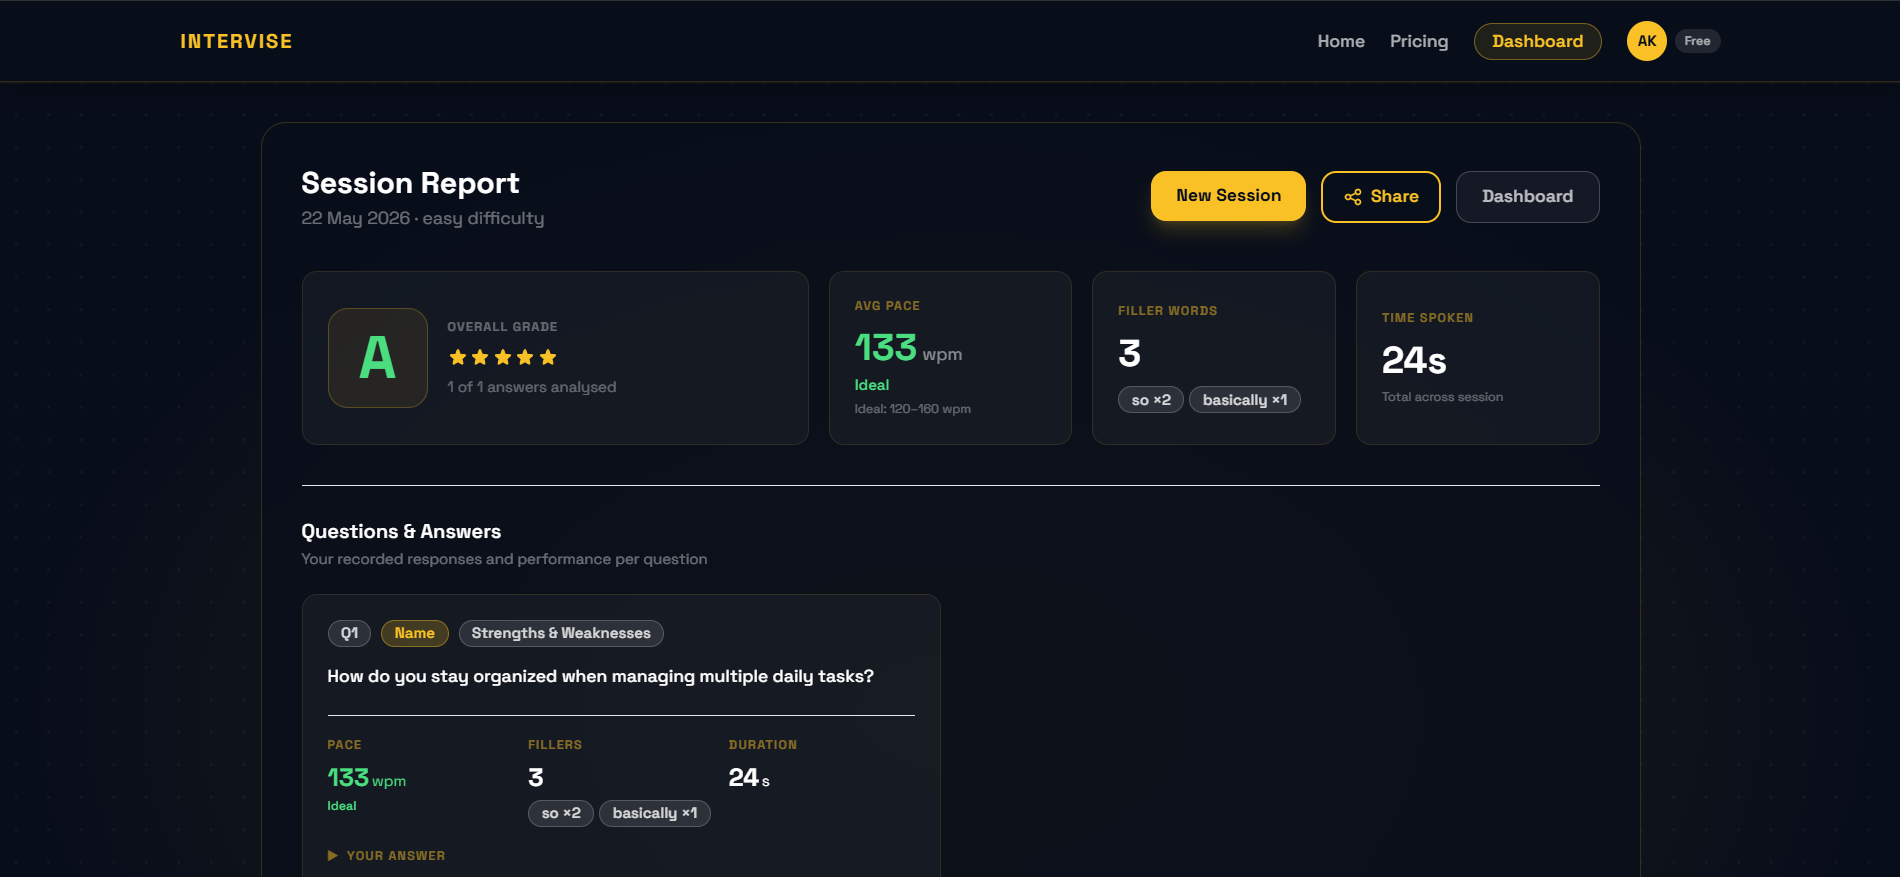
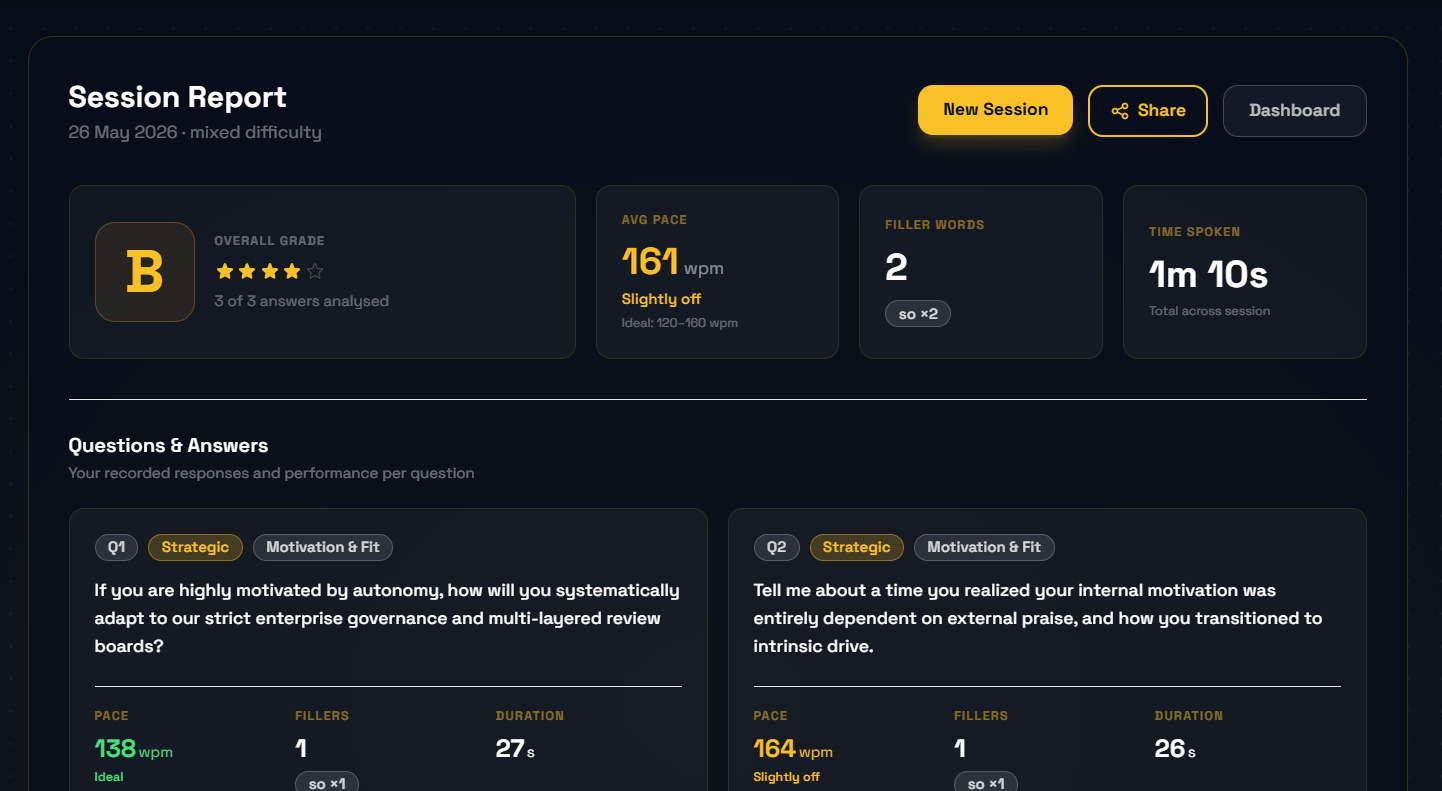
fix: increase AI feedback token limit, fix difficulty constraint migration
- Raise Gemini maxOutputTokens from 800 → 1500 to prevent JSON truncation
  causing AI feedback to return null ("not available for this question")
- Add migration 015: idempotent fix for sessions difficulty constraint
  (ensures 'hard' is allowed) and update create_session_atomic RPC to
  latest version with proper tier/difficulty enforcement
- Replace report-stats.png screenshot with cleaner version
- Add dashboard-progress.png screenshot

diff --git a/lib/aifeedback.ts b/lib/aifeedback.ts
@@ -620,7 +620,7 @@ export async function generateAnswerFeedback(params: {
     const model = genAI.getGenerativeModel({
       model: 'gemini-2.0-flash',
       systemInstruction: SYSTEM_PROMPT,
-      generationConfig: { temperature: 0, maxOutputTokens: 800 },
+      generationConfig: { temperature: 0, maxOutputTokens: 1500 },
     })
 
     const result = await model.generateContent(buildUserPrompt({
